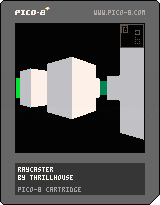
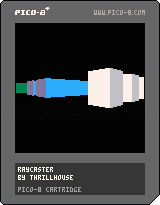
rebuild raycaster

Changed region(s): [[0.0938, 0.1171, 0.9062, 0.7024]]

diff --git a/docs/raycaster.js b/docs/raycaster.js
@@ -68,14 +68,14 @@ var _cartdat=[
 0,0,0,0,0,0,0,0,0,0,0,0,0,0,0,0,0,16,0,0,0,0,0,0,0,0,0,0,0,0,0,0,0,0,0,0,0,0,0,0,0,0,0,0,0,0,0,0,0,0,0,0,0,0,0,0,0,0,0,0,0,0,0,0,0,0,0,0,0,0,0,0,0,0,0,0,0,0,0,0,0,0,0,0,0,16,0,0,0,0,0,0,0,0,0,0,0,0,0,0,0,0,0,0,0,0,0,0,0,0,0,0,0,0,0,0,0,0,0,0,0,0,0,0,0,0,0,0,0,0,0,0,0,0,0,0,0,0,0,0,0,0,0,0,0,0,0,0,0,0,0,0,0,16,0,0,0,0,0,0,0,0,0,0,0,0,0,0,0,0,0,0,0,0,0,0,0,0,0,0,0,0,0,0,0,0,0,0,0,0,0,0,0,0,0,0,0,0,0,0,0,0,0,0,0,0,0,0,0,0,0,0,0,0,0,0,0,0,0,0,0,16,0,0,0,0,0,0,0,0,0,0,0,0,0,0,0,0,0,0,0,0,0,0,0,0,0,0,0,0,0,0,0,0,0,0,
 0,0,0,0,0,0,0,0,0,0,0,0,0,0,0,0,0,0,0,0,0,0,0,0,0,0,0,0,0,0,0,0,0,16,0,0,0,0,0,0,0,0,0,0,0,0,0,0,0,0,0,0,0,0,0,0,0,0,0,0,0,0,0,0,0,0,0,0,0,0,0,0,0,0,0,0,0,0,0,0,0,0,0,0,0,0,0,0,0,0,0,0,0,0,0,0,0,0,0,0,0,16,0,0,0,0,0,0,0,0,0,0,0,0,0,0,0,0,0,0,0,0,0,0,0,0,0,0,0,0,0,0,0,0,0,0,0,0,0,0,0,0,0,0,0,0,0,0,0,0,0,0,0,0,0,0,0,0,0,0,0,0,0,0,0,0,0,0,0,16,0,0,0,0,0,0,0,0,0,0,0,0,0,0,0,0,0,0,0,0,0,0,0,0,0,0,0,0,0,0,0,0,0,0,0,0,0,0,0,0,0,0,0,0,0,0,0,0,0,0,0,0,0,0,0,0,0,0,0,0,0,0,0,0,0,0,0,16,0,0,0,0,0,0,0,0,0,0,0,0,0,0,0,0,0,0,
 0,0,0,0,0,0,0,0,0,0,0,0,0,0,0,0,0,0,0,0,0,0,0,0,0,0,0,0,0,0,0,0,0,0,0,0,0,0,0,0,0,0,0,0,0,0,0,0,0,16,0,0,0,0,0,0,0,0,0,0,0,0,0,0,0,0,0,0,0,0,0,0,0,0,0,0,0,0,0,0,0,0,0,0,0,0,0,0,0,0,0,0,0,0,0,0,0,0,0,0,0,0,0,0,0,0,0,0,0,0,0,0,0,0,0,0,0,16,0,0,0,0,0,0,0,0,0,0,0,0,0,0,0,0,0,0,0,0,0,0,0,0,0,0,0,0,0,0,0,0,0,0,0,0,0,0,0,0,0,0,0,0,0,0,0,0,0,0,0,0,0,0,0,0,0,0,0,0,0,0,0,0,0,0,0,16,0,0,0,0,0,0,0,0,0,0,0,0,0,0,0,0,0,0,0,0,0,0,0,0,0,0,0,0,0,0,0,0,0,0,0,0,0,0,0,0,0,0,0,0,0,0,0,0,0,0,0,0,0,0,0,0,0,0,0,0,0,0,0,0,0,0,0,16,0,0,
-58,99,58,0,25,240,0,0,0,45,0,45,2,30,13,37,15,13,31,32,17,30,1,60,29,14,37,2,32,20,30,21,24,24,20,27,33,31,17,1,61,35,46,36,47,2,33,26,32,17,36,32,33,30,17,16,62,111,21,26,19,61,61,2,47,2,25,13,28,2,17,16,21,32,27,64,50,61,34,35,13,24,24,2,63,82,31,62,103,31,28,30,21,32,60,143,18,24,27,27,30,2,13,26,16,2,15,17,21,24,64,31,63,193,67,21,25,21,26,21,65,28,66,103,32,21,32,24,17,2,31,15,30,17,17,26,67,123,33,31,21,15,68,104,69,138,2,17,36,28,24,13,26,13,32,21,27,26,63,98,1,18,33,26,15,61,49,16,30,13,35,59,75,22,31,42,43,1,2,2,76,18,68,26,28,75,39,27,33,19,20,2,17,13,15,20,2,15,27,24,33,25,26,2,27,18,76,30,67,116,2,2,18,71,18,36,2,51,2,3,57,2,4,5,10,2,16,27,64,16,64,50,31,17,32,2,70,30,32,21,13,24,2,34,13,30,21,13,14,24,75,25,61,45,15,13,
+58,99,58,0,25,228,0,0,0,45,0,45,2,30,13,37,15,13,31,32,17,30,1,60,29,14,37,2,32,20,30,21,24,24,20,27,33,31,17,1,61,35,46,36,47,2,33,26,32,17,36,32,33,30,17,16,62,111,21,26,19,61,61,2,47,2,25,13,28,2,17,16,21,32,27,64,50,61,34,35,13,24,24,2,63,82,31,62,103,31,28,30,21,32,60,143,18,24,27,27,30,2,13,26,16,2,15,17,21,24,64,31,63,193,67,21,25,21,26,21,65,28,66,103,32,21,32,24,17,2,31,15,30,17,17,26,67,123,33,31,21,15,68,104,69,138,2,17,36,28,24,13,26,13,32,21,27,26,63,98,1,18,33,26,15,61,49,16,30,13,35,59,75,22,31,42,43,1,2,2,76,18,68,26,28,75,39,27,33,19,20,2,17,13,15,20,2,15,27,24,33,25,26,2,27,18,76,30,67,116,2,2,18,71,18,36,2,51,2,3,57,2,4,5,10,2,16,27,64,16,64,50,31,17,32,2,70,30,32,21,13,24,2,34,13,30,21,13,14,24,75,25,61,45,15,13,
 25,17,30,13,0,88,63,21,5,2,53,63,29,52,63,58,0,45,2,4,1,63,60,83,29,0,68,21,30,65,19,44,64,59,2,65,63,16,21,30,56,36,2,50,2,72,36,17,60,26,53,64,102,57,62,85,37,62,85,37,62,117,37,62,133,69,52,45,65,79,85,27,0,80,27,31,65,47,71,39,18,24,30,42,28,27,31,56,36,43,57,64,51,61,96,37,43,45,76,39,35,20,21,75,27,31,29,33,13,30,17,75,107,89,44,35,17,0,39,61,17,17,34,13,24,33,81,18,91,24,75,37,31,21,16,17,0,68,21,31,32,71,43,63,62,24,17,26,19,32,20,79,35,97,17,2,18,30,27,25,2,15,33,30,30,17,26,32,2,67,20,77,27,84,27,32,27,2,26,96,24,80,20,91,27,37,64,52,80,50,16,17,24,32,13,64,110,82,33,13,14,31,42,4,78,28,77,79,71,113,61,55,52,61,85,37,43,2,67,249,67,89,27,26,17,66,164,67,40,88,40,67,44,71,77,32,17,28,71,121,35,20,13,32,83,35,17,93,78,70,20,61,63,21,26,2,
 42,50,4,70,41,0,45,4,43,86,77,110,29,16,17,110,25,101,25,100,25,64,36,63,135,104,41,77,116,94,72,105,44,37,94,50,95,40,15,106,31,16,65,38,109,44,44,0,34,36,0,34,57,2,0,34,37,0,34,45,96,101,2,2,21,18,2,42,92,79,46,62,60,47,2,48,2,3,43,100,33,99,43,93,78,71,41,61,110,51,69,25,61,137,84,95,61,141,90,42,64,105,0,45,92,89,65,89,43,100,26,83,115,66,93,99,95,17,24,123,22,66,254,66,62,66,253,66,173,66,176,103,27,4,106,19,68,129,67,241,67,145,26,16,112,53,60,40,112,110,32,30,13,15,87,21,115,26,96,59,27,30,35,13,79,27,132,20,21,24,2,13,129,77,21,31,2,20,21,88,77,60,24,105,44,13,71,106,131,61,118,20,60,77,20,21,127,21,42,26,27,32,63,32,43,82,206,104,100,114,29,48,105,113,97,40,83,196,62,134,50,117,28,102,107,56,36,85,118,114,70,62,64,97,43,61,155,99,63,69,174,82,227,67,118,65,205,95,72,65,157,62,48,65,61,61,
 139,65,93,32,30,33,65,124,80,102,76,119,35,27,30,24,16,46,70,98,47,60,106,37,91,97,99,22,150,62,49,2,3,98,59,80,95,65,36,85,252,142,44,15,13,24,15,33,24,13,32,17,134,22,31,32,13,26,86,41,27,155,65,42,148,29,152,23,139,66,135,77,146,33,105,58,116,71,66,32,108,72,51,107,45,98,62,61,129,36,61,17,92,94,160,33,129,94,97,219,97,167,142,19,126,22,147,30,109,134,43,146,17,5,60,37,112,186,71,254,17,2,163,18,125,40,28,164,50,14,27,32,32,27,25,152,61,61,40,0,72,17,21,19,20,137,42,4,5,11,151,17,68,109,134,75,159,29,0,84,158,31,51,171,23,36,42,156,25,0,45,63,146,67,28,151,23,9,7,75,71,162,40,0,66,99,25,62,27,21,26,42,159,17,57,65,174,62,140,129,252,176,64,164,20,177,18,125,90,105,137,116,25,175,54,97,126,87,54,72,47,0,67,63,33,165,30,6,113,65,120,26,89,109,63,117,108,40,63,245,63,53,4,128,76,63,214,5,66,251,63,214,5,66,252,63,
 118,66,252,66,140,70,242,73,39,6,73,247,73,199,9,73,247,63,117,73,247,76,124,10,76,252,80,17,7,80,241,80,193,11,80,241,63,117,80,241,83,118,76,138,150,109,151,101,61,208,83,182,134,70,139,125,101,38,42,36,57,98,102,57,2,60,92,96,23,95,77,90,52,199,39,143,40,143,52,201,119,25,27,34,17,201,50,27,24,16,193,68,192,24,60,79,0,80,192,41,199,24,193,49,195,41,162,28,14,32,26,42,161,31,93,102,60,47,7,162,78,2,30,27,32,122,17,59,24,17,18,32,42,43,150,116,63,84,4,63,244,63,164,30,111,42,63,37,63,180,117,18,77,213,130,59,222,23,23,59,153,95,63,244,6,63,244,63,132,14,13,15,23,63,85,69,188,73,80,72,92,66,120,31,161,17,18,73,240,73,192,63,244,63,68,73,176,83,192,78,182,224,25,215,22,216,40,222,49,84,67,215,75,27,31,42,0,45,81,18,0,83,28,17,17,16,43,219,26,61,92,215,34,143,16,61,156,217,110,218,98,64,149,62,201,221,27,64,149,66,209,45,233,20,223,57,
 68,173,92,49,68,255,68,111,61,78,69,241,69,177,69,115,64,139,69,245,64,187,69,247,79,254,95,144,79,255,79,191,79,254,79,142,79,253,79,253,62,216,79,252,65,158,79,251,79,251,68,235,79,202,88,250,79,249,79,137,79,248,79,168,79,247,122,117,111,195,120,74,186,67,249,125,253,20,253,44,99,44,125,35,99,72,47,62,112,37,43,223,27,205,31,186,78,63,82,126,60,63,195,123,134,66,208,64,172,66,92,104,44,66,156,66,208,201,75,62,231,136,242,121,252,73,254,210,52,244,20,73,254,73,254,73,190,0,45,73,254,73,254,73,254,73,78,66,76,73,254,73,222,66,80,73,254,150,208,132,182,253,23,151,32,150,72,127,68,87,101,127,33,3,56,5,8,126,44,81,109,126,41,61,52,117,195,126,72,90,110,62,117,85,150,64,141,45,155,88,81,240,68,105,95,242,95,242,81,196,63,247,95,246,95,246,81,136,67,100,95,250,81,252,62,251,95,254,82,192,129,130,82,241,82,241,82,241,82,241,82,241,82,241,82,241,116,255,82,241,117,243,117,243,117,51,
-85,248,117,247,117,247,117,135,82,241,117,251,117,123,84,252,117,255,194,65,235,43,59,232,27,21,245,18,131,108,60,95,249,59,254,60,184,31,167,61,4,57,2,40,133,57,2,16,27,169,88,61,43,173,45,61,123,46,4,47,61,142,136,155,36,47,46,37,134,181,31,17,32,240,16,11,251,29,205,28,117,39,65,30,199,28,210,61,61,253,67,43,111,29,199,69,209,110,210,182,65,80,12,180,29,143,50,57,120,105,71,38,11,209,190,209,143,59,75,25,186,73,73,71,186,27,253,49,44,4,57,4,57,60,36,60,104,61,224,62,208,45,186,71,63,23,3,57,3,60,36,60,104,61,224,62,176,63,247,63,253,64,255,63,247,67,240,68,242,66,254,70,165,5,57,5,60,36,60,24,71,105,6,60,36,60,88,70,245,63,135,63,111,75,240,73,252,63,247,63,167,66,102,66,254,66,254,66,254,80,250,73,252,73,54,73,252,73,252,87,248,88,244,87,248,90,255,91,247,92,249,90,255,94,250,95,252,94,246,97,253,98,255,97,253,101,244,102,242,101,244,104,251,105,245,106,
-245,108,242,108,248,109,248,108,226,7,57,7,60,36,60,104,112,249,111,249,63,103,3,62,157,63,247,115,240,63,151,118,75,8,63,247,118,247,66,254,66,254,123,246,70,245,73,252,126,249,125,245,76,245,129,252,128,252,80,250,80,250,132,243,135,122,139,243,140,243,139,161,249,29,195,61,229,30,250,34,250,33,5,5,152,40,158,22,5,243,36,251,91,251,42,0,45,159,24,247,47,3,244,188,253,36,3,61,89,56,9,9,200,59,253,101,61,52,3,4,209,81,61,131,5,8,210,36,165,95,51,2,18,13,158,29,240,221,59,33,28,16,13,32,17,212,126,241,97,14,32,26,28,42,212,16,238,50,64,131,26,27,32,171,112,231,253,2,59,173,47,245,51,15,24,31,245,59,175,48,30,13,37,60,158,175,142,247,75,32,21,25,67,31,2,48,2,8,176,130,28,30,21,26,32,42,0,34,20,253,22,2,38,2,32,27,223,89,0,34,171,19,171,22,169,44,62,167,28,30,17,31,31,224,16,62,24,32,27,19,19,24,17,181,99,63,64,10,63,80,242,109,0,0,0,0,
+85,248,117,247,117,247,117,135,82,241,117,251,117,123,84,252,117,255,194,65,235,43,59,232,27,21,245,18,131,108,60,95,249,59,254,60,184,31,167,61,4,57,2,40,133,57,2,16,27,169,88,61,43,173,45,61,123,46,4,47,61,142,136,155,36,47,46,37,134,181,31,17,32,240,32,251,29,205,28,37,57,2,199,24,210,57,61,249,111,21,198,77,209,102,209,190,64,88,11,180,21,142,58,57,133,79,57,2,11,209,178,209,131,59,74,29,185,77,72,75,185,31,254,53,44,4,57,4,57,60,36,60,104,61,224,62,208,45,185,75,63,23,3,57,3,60,36,60,104,61,224,62,176,63,247,63,253,64,255,63,247,67,240,68,242,66,254,70,165,5,57,5,60,36,60,24,71,105,6,60,36,60,88,70,245,63,135,63,111,75,240,73,252,63,247,63,167,66,102,66,254,66,254,66,254,80,250,73,252,73,54,73,252,73,252,87,248,88,244,87,248,90,255,91,247,92,249,90,255,94,250,95,252,94,246,97,253,98,255,97,253,101,244,102,242,101,244,104,251,105,245,106,245,108,242,108,
+248,109,248,108,226,7,57,7,60,36,60,104,112,249,111,249,63,103,3,62,157,63,247,115,240,63,151,118,75,8,63,247,118,247,66,254,66,254,123,246,70,245,73,252,126,249,125,245,76,245,129,252,128,252,80,250,80,250,132,243,135,122,139,243,140,243,139,161,249,17,195,49,229,18,249,38,249,37,5,5,151,28,157,42,5,242,40,250,95,250,46,0,45,158,28,247,35,3,244,176,252,40,3,61,89,56,9,9,199,63,252,105,61,52,3,4,208,85,61,131,5,8,209,40,165,83,51,2,18,13,158,21,240,209,59,33,28,16,13,32,17,212,114,240,101,14,32,26,28,42,211,20,237,54,64,131,26,27,32,170,116,231,241,2,59,173,35,244,55,15,24,31,244,63,174,52,30,13,37,60,158,175,130,246,79,32,21,25,67,31,2,48,2,8,175,134,28,30,21,26,32,42,0,34,20,254,23,2,38,2,32,27,222,93,0,34,57,176,40,176,27,8,250,43,62,119,28,30,17,31,31,223,20,62,24,32,27,19,19,24,17,180,103,63,64,11,63,80,242,97,0,0,0,0,0,0,
 0,0,0,0,0,0,0,0,0,0,0,0,0,0,0,0,0,0,0,0,0,0,0,0,0,0,0,0,0,0,0,0,0,0,0,0,0,0,0,0,0,0,0,0,0,0,0,0,0,0,0,0,0,0,0,0,0,0,0,0,0,0,0,0,0,0,0,0,0,0,0,0,0,0,0,0,0,0,0,0,0,0,0,0,0,0,0,0,0,0,0,0,0,0,0,0,0,0,0,0,0,0,0,0,0,0,0,0,0,0,0,0,0,0,0,0,0,0,0,0,0,0,0,0,0,0,0,0,0,0,0,0,0,0,0,0,0,0,0,0,0,0,0,0,0,0,0,0,0,0,0,0,0,0,0,0,0,0,0,0,0,0,0,0,0,0,0,0,0,0,0,0,0,0,0,0,0,0,0,0,0,0,0,0,0,0,0,0,0,0,0,0,0,0,0,0,0,0,0,0,0,0,0,0,0,0,0,0,0,0,0,0,0,0,0,0,0,0,0,0,0,0,0,0,0,0,0,0,0,0,0,0,0,0,0,0,0,0,0,0,0,0,0,0,0,0,0,0,0,0,0,0,0,0,0,0,
 0,0,0,0,0,0,0,0,0,0,0,0,0,0,0,0,0,0,0,0,0,0,0,0,0,0,0,0,0,0,0,0,0,0,0,0,0,0,0,0,0,0,0,0,0,0,0,0,0,0,0,0,0,0,0,0,0,0,0,0,0,0,0,0,0,0,0,0,0,0,0,0,0,0,0,0,0,0,0,0,0,0,0,0,0,0,0,0,0,0,0,0,0,0,0,0,0,0,0,0,0,0,0,0,0,0,0,0,0,0,0,0,0,0,0,0,0,0,0,0,0,0,0,0,0,0,0,0,0,0,0,0,0,0,0,0,0,0,0,0,0,0,0,0,0,0,0,0,0,0,0,0,0,0,0,0,0,0,0,0,0,0,0,0,0,0,0,0,0,0,0,0,0,0,0,0,0,0,0,0,0,0,0,0,0,0,0,0,0,0,0,0,0,0,0,0,0,0,0,0,0,0,0,0,0,0,0,0,0,0,0,0,0,0,0,0,0,0,0,0,0,0,0,0,0,0,0,0,0,0,0,0,0,0,0,0,0,0,0,0,0,0,0,0,0,0,0,0,0,0,0,0,0,0,0,0,
 0,0,0,0,0,0,0,0,0,0,0,0,0,0,0,0,0,0,0,0,0,0,0,0,0,0,0,0,0,0,0,0,0,0,0,0,0,0,0,0,0,0,0,0,0,0,0,0,0,0,0,0,0,0,0,0,0,0,0,0,0,0,0,0,0,0,0,0,0,0,0,0,0,0,0,0,0,0,0,0,0,0,0,0,0,0,0,0,0,0,0,0,0,0,0,0,0,0,0,0,0,0,0,0,0,0,0,0,0,0,0,0,0,0,0,0,0,0,0,0,0,0,0,0,0,0,0,0,0,0,0,0,0,0,0,0,0,0,0,0,0,0,0,0,0,0,0,0,0,0,0,0,0,0,0,0,0,0,0,0,0,0,0,0,0,0,0,0,0,0,0,0,0,0,0,0,0,0,0,0,0,0,0,0,0,0,0,0,0,0,0,0,0,0,0,0,0,0,0,0,0,0,0,0,0,0,0,0,0,0,0,0,0,0,0,0,0,0,0,0,0,0,0,0,0,0,0,0,0,0,0,0,0,0,0,0,0,0,0,0,0,0,0,0,0,0,0,0,0,0,0,0,0,0,0,0,

diff --git a/docs/raycaster.html b/docs/raycaster.html
@@ -541,7 +541,7 @@ canvas{
 
 .p8_start_button{
 	cursor:pointer;
[2 lines of base64/hex data omitted]
 	-repeat center;
 	-webkit-background-size:cover; -moz-background-size:cover; -o-background-size:cover; background-size:cover;
 }
